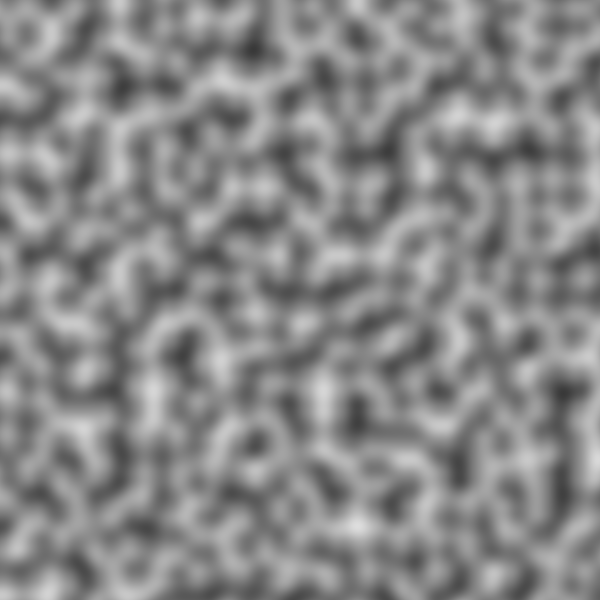
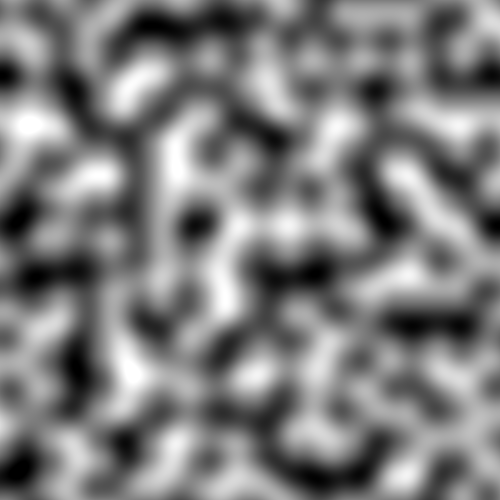
Changed perlin noise params

diff --git a/perlin_noise.py b/perlin_noise.py
@@ -62,11 +62,11 @@ class Perlin:
         dot4 = self._dot((x, y - 1), grad4)
 
         # Interpolate the results, add 1 and divide by 2 to adjust range
-        thresh1 = 1.5  # 0 - 2
-        thresh2 = 2.8  # > 2
+        thresh1 = .7  # 0 - 2
+        thresh2 = 1.4  # > 2
         return (self._lerp(self._lerp(dot3, dot4, self._f(x)), self._lerp(dot2, dot1, self._f(x)), self._f(y)) + thresh1) / thresh2
     
-    def create_image(self, width=500, height=500, out_path='./noise.png'):
+    def create_image(self, width=500, height=500, save=False, out_path='./noise.png'):
         '''Exports the perlin noise as a greyscale image'''
         img = Image.new('L', (height, width), 255)
         data = img.load()
@@ -74,12 +74,15 @@ class Perlin:
             for y in range(width):
                 value = self.perlin_noise(x, y)
                 data[x, y] = math.floor(value * 255)
-        img.save(out_path)
+        if save:
+            img.save(out_path)
+        return img
+
 
 def main():
-    freq = 200  # Freq, smaller is more dense
-    noise = Perlin(freq, seed='seed')
-    noise.create_image(width=600, height=600, out_path='./noise.png')
+    freq = 25  # Freq, smaller is more dense
+    noise = Perlin(freq)
+    noise.create_image(width=200, height=200, save=True)
 
 if __name__ == '__main__':
     main()
